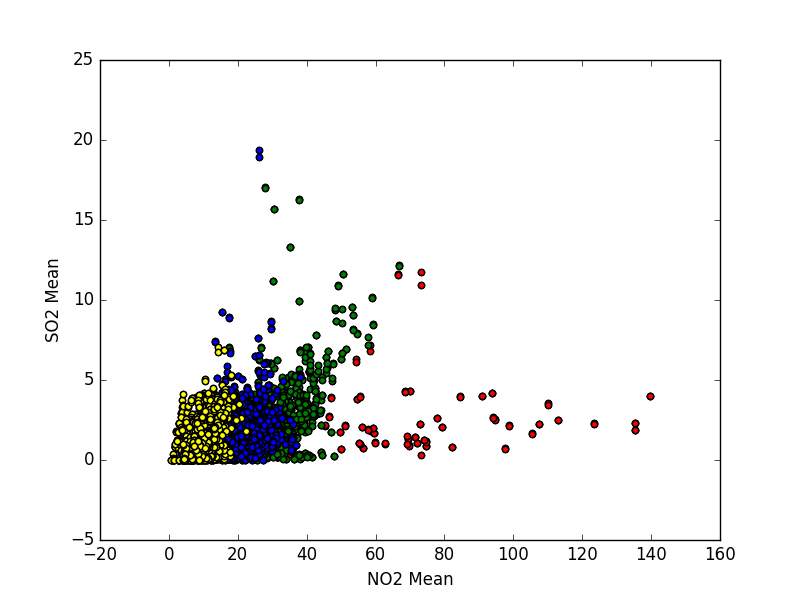
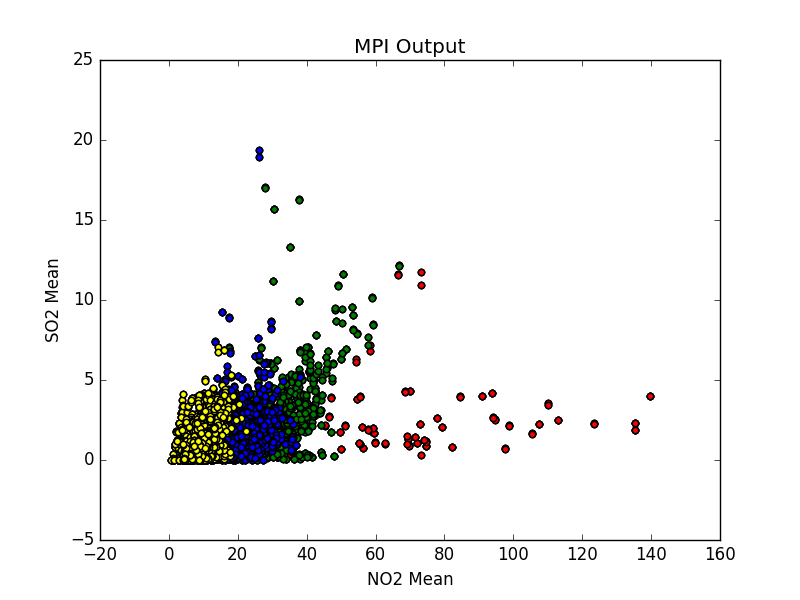
logging final results

diff --git a/opencl_kmeans.cpp b/opencl_kmeans.cpp
@@ -132,11 +132,11 @@ int main(int argc, char *argv[])
     cl_mem d_mem_obj = clCreateBuffer(context, CL_MEM_READ_WRITE, nsamples * num_clusters * sizeof(float), NULL, &status);
     cl_mem e_mem_obj = clCreateBuffer(context, CL_MEM_READ_WRITE, num_clusters * sizeof(int), NULL, &status);
 
+    status = clEnqueueWriteBuffer(cq, a_mem_obj, CL_TRUE, 0, nsamples * dims * sizeof(float), dataframe, 0, NULL, NULL);
     status = clEnqueueWriteBuffer(cq, c_mem_obj, CL_TRUE, 0, (dims-1) * sizeof(float), rand_max, 0, NULL, NULL);
 
 	cl_program program = clCreateProgramWithSource(context, 1, (const char **)&src_str, (const size_t *)&s_size, &status);
     status = clBuildProgram(program, 1, &device_id, NULL, NULL, NULL);
-    cout<< status << endl;
     cl_kernel kernel = clCreateKernel(program, "initialize_clusters", &status);
 	size_t global_item_size = num_clusters;
 	size_t local_item_size = 1;
@@ -160,7 +160,6 @@ int main(int argc, char *argv[])
 
     program = clCreateProgramWithSource(context, 1, (const char **)&src_str, (const size_t *)&s_size, &status);
     status = clBuildProgram(program, 1, &device_id, NULL, NULL, NULL);
-    cout<< status << endl;
     cl_kernel kernel1 = clCreateKernel(program, "calculate_distance", &status);
 
     f = fopen("new_cluster.cl", "r");
@@ -176,13 +175,12 @@ int main(int argc, char *argv[])
 
     program = clCreateProgramWithSource(context, 1, (const char **)&src_str, (const size_t *)&s_size, &status);
     status = clBuildProgram(program, 1, &device_id, NULL, NULL, NULL);
-    cout<< status << endl;
     cl_kernel kernel2 = clCreateKernel(program, "get_new_cluster", &status);
 
     int changed = 1;
+    double run_time = clock();
     while(changed)
     {
-        cout<<"Iterating!" << endl;
         status = clSetKernelArg(kernel1, 0, sizeof(cl_mem), &a_mem_obj);
     	status = clSetKernelArg(kernel1, 1, sizeof(cl_mem), &b_mem_obj);
         status = clSetKernelArg(kernel1, 2, sizeof(cl_mem), &d_mem_obj);
@@ -210,6 +208,9 @@ int main(int argc, char *argv[])
             }
         }
     }
+    run_time = (clock() - run_time) / CLOCKS_PER_SEC;
+    cout << run_time << endl;
+    status = clEnqueueReadBuffer(cq, a_mem_obj, CL_TRUE, 0, nsamples * dims * sizeof(float), dataframe, 0, NULL, NULL);
     write_results_to_file(dataframe, nsamples);
 	status = clFlush(cq);
 	status = clReleaseKernel(kernel);

diff --git a/result_logger.py b/result_logger.py
@@ -1,27 +1,46 @@
 import os
 import matplotlib.pyplot as plt
 
-def log_sequential_results():
+def log_opencl_vs_sequential():
     for cluster in xrange(1, 21):
-        command = "./a.out %d >> results" % (cluster)
+        command = "./sqkm %d >> Times/sequential_times" % (cluster)
+        os.system(command)
+        command = "./openclkm %d >> Times/opencl_times" % (cluster)
         os.system(command)
 
-def make_graphs():
-    result_file = open("results", "r")
-    clusters = []
+def log_sequential_vs_MPI():
+    for i in xrange(1,21):
+        command = "mpirun -n 4 mpikm >> Times/mpi_results"
+        os.system(command)
+        command = "./sqkm 4 >> Times/sequential_times_4"
+        os.system(command)
+
+def get_times_as_list(filename):
+    result_file = open(filename, "r")
     time_taken = []
-    num_cluster = 1
     for line in result_file:
         time = float(line)
-        clusters.append(num_cluster)
         time_taken.append(time)
-        num_cluster += 1
+    return time_taken
+
+def make_graphs():
+    clusters = [i for i in xrange(1, 21)]
+    seq_times = get_times_as_list('Times/sequential_times')
+    cl_times = get_times_as_list('Times/opencl_times')
+    seq_times_4 = get_times_as_list('Times/sequential_times_4')
+    mpi_times = get_times_as_list('Times/mpi_results')
+    plt.plot(clusters, seq_times, c = 'red')
+    plt.plot(clusters, opencl_times, c = 'blue')
+    mpi_times_new = []
+    for s, s4, m, i in zip(seq_times, seq_times_4, mpi_times, xrange(1, 21)):
+        new_time = (m / s4) * s * (i / 4)
+        mpi_times_new.append(new_time)
+    plt.plot(clusters, mpi_times_new, c = 'green')
     plt.xlabel("Number of clusters")
     plt.ylabel("Time taken")
-    plt.title("Number of clusters vs Time taken: Sequential k-means")
+    plt.title("Sequential vs MPI vs OpenCL")
     plt.plot(clusters, time_taken)
-    plt.savefig("Performance/Sequential.png")
+    plt.savefig("Performance/Comparison.png")
     plt.show()
 
-log_sequential_results()
-make_graphs()
+log_opencl_vs_sequential()

diff --git a/graph_plotter.py b/graph_plotter.py
@@ -13,6 +13,7 @@ def make_initial_graph():
     plt.scatter(X, Y, c = 'black')
     plt.xlabel("NO2 Mean")
     plt.ylabel("SO2 Mean")
+    plt.title("Initial Output")
     plt.savefig("Clustering_Images/Initial.png")
 
 def make_MPI_graph():
@@ -35,6 +36,7 @@ def make_MPI_graph():
             iter_count += 1
     plt.xlabel("NO2 Mean")
     plt.ylabel("SO2 Mean")
+    plt.title("MPI Output")
     plt.savefig("Clustering_Images/MPI.png")
 
 def make_sequential_graph():
@@ -56,8 +58,31 @@ def make_sequential_graph():
         iter_count += 1
     plt.xlabel("NO2 Mean")
     plt.ylabel("SO2 Mean")
+    plt.title("Sequential Output")
     plt.savefig("Clustering_Images/Sequential.png")
+
+def make_OpenCL_graph():
+    data = pd.read_csv('data/pollution_new_small.csv', header = 0)
+    data.rename(columns = {'Unnamed: 0' : 'ID'}, inplace = True)
+    X = data['NO2 Mean']
+    Y = data['SO2 Mean']
+    iter_count = 0
+    cluster_output = pd.read_csv('Results/OpenCL_results.csv', header = 0)
+    for unique_val in cluster_output['Cluster'].unique():
+        curX, curY = [], []
+        for point, cluster in zip(cluster_output['Point'], cluster_output['Cluster']):
+            if cluster == unique_val:
+                curX.append(X[point-1])
+                curY.append(Y[point-1])
+        plt.scatter(curX, curY, c = colors[iter_count])
+        iter_count += 1
+    plt.xlabel("NO2 Mean")
+    plt.ylabel("SO2 Mean")
+    plt.title("OpenCL Output")
+    plt.savefig("Clustering_Images/OpenCL.png")
+
 
 make_initial_graph()
 make_MPI_graph()
 make_sequential_graph()
+make_OpenCL_graph()
